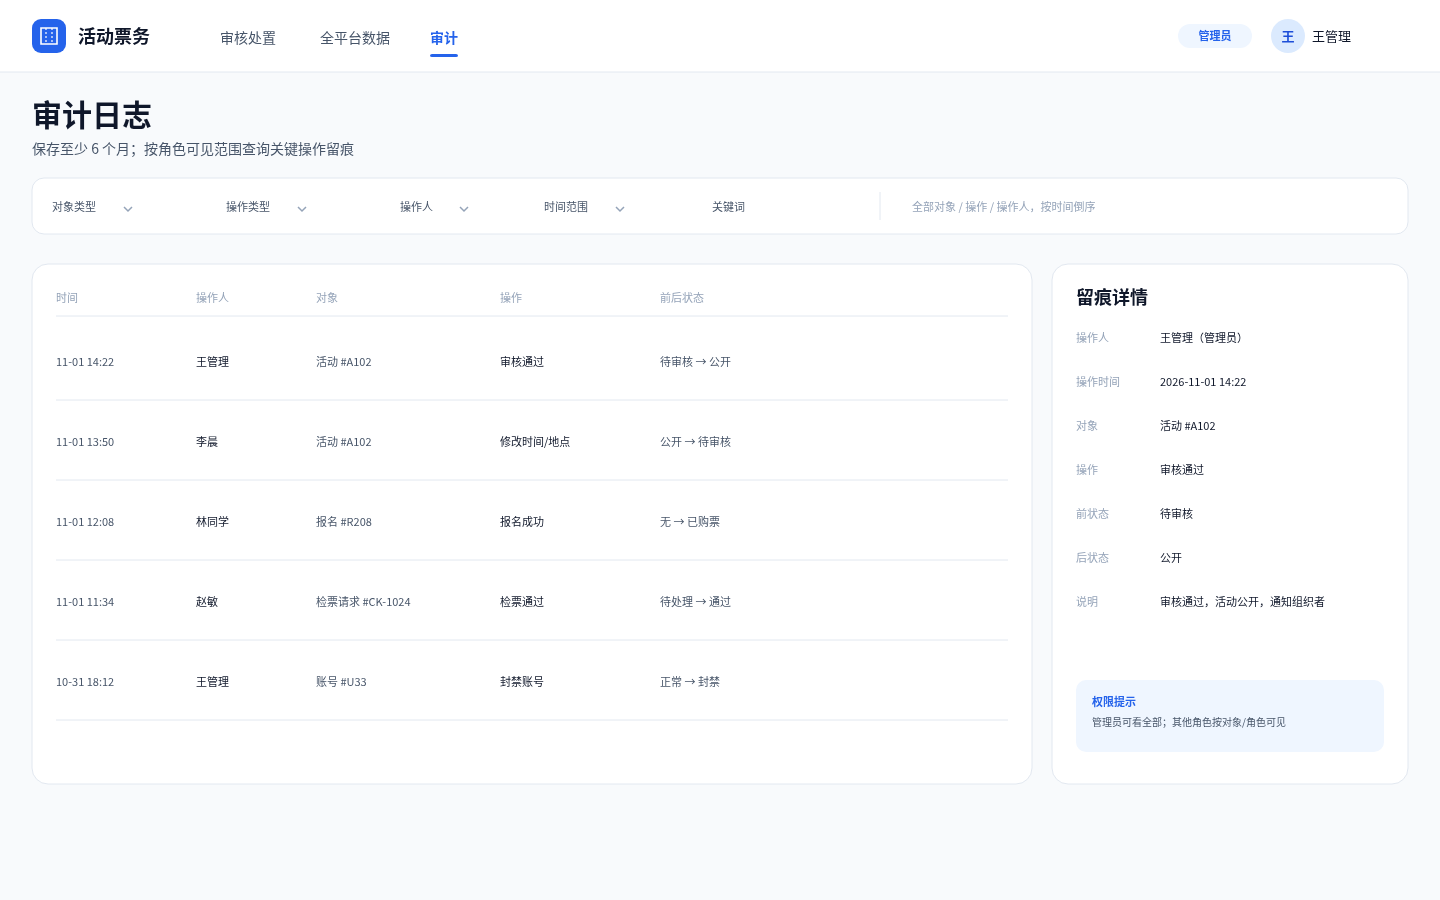
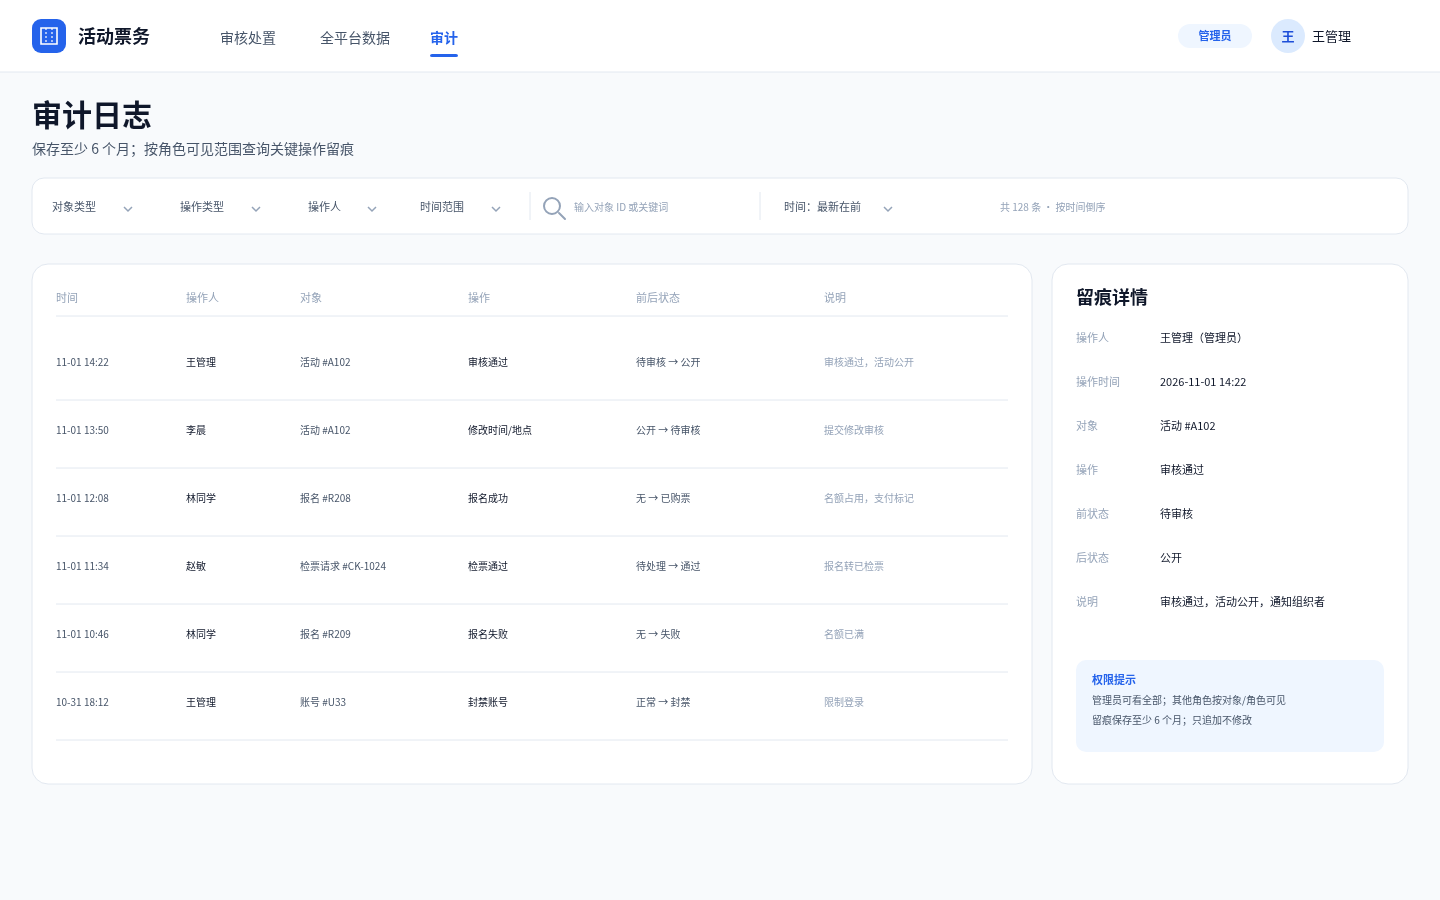
lab2: 按需求优化审计日志筛选与排序
- 筛选增加对象ID/关键词，排序明确时间最新在前
- 表格增加说明列，增加报名失败记录
- 保留6个月、角色可见、只追加不修改说明

diff --git a/lab2/UI/生成UI.py b/lab2/UI/生成UI.py
@@ -617,31 +617,39 @@ def screen_audit():
     b.append(text(32, 126, "审计日志", 30, C["text"], 700))
     b.append(text(32, 154, "保存至少 6 个月；按角色可见范围查询关键操作留痕", 14, C["sub"]))
     b.append(rect(32, 178, 1376, 56, C["surface"], 12, C["border"]))
-    for x, label, chev in [(52, "对象类型", 72), (226, "操作类型", 72), (400, "操作人", 60), (544, "时间范围", 72), (712, "关键词", 0)]:
+    # 筛选：对象类型 / 操作类型 / 操作人 / 时间范围 / 对象或关键词 / 排序
+    for x, label, chev in [(52, "对象类型", 72), (180, "操作类型", 72), (308, "操作人", 60), (420, "时间范围", 72), (784, "时间：最新在前", 100)]:
         b.append(text(x, 211, label, 11, C["sub"]))
         if chev:
             b.append(f'<path d="M{x+chev} 207 l4 4 l4 -4" fill="none" stroke="{C["muted"]}" stroke-width="1.5"/>')
-    b.append(line(880, 192, 880, 220, C["border"]))
-    b.append(text(912, 211, "全部对象 / 操作 / 操作人，按时间倒序", 11, C["muted"]))
+    b.append(line(530, 192, 530, 220, C["border"]))
+    b.append(icon_search(552, 206, 8))
+    b.append(text(574, 211, "输入对象 ID 或关键词", 10, C["muted"]))
+    b.append(line(760, 192, 760, 220, C["border"]))
+    b.append(text(1000, 211, "共 128 条 · 按时间倒序", 10, C["muted"]))
+    # 日志表
     b.append(rect(32, 264, 1000, 520, C["surface"], 16, C["border"]))
-    for x, label in [(56, "时间"), (196, "操作人"), (316, "对象"), (500, "操作"), (660, "前后状态")]:
+    for x, label in [(56, "时间"), (186, "操作人"), (300, "对象"), (468, "操作"), (636, "前后状态"), (824, "说明")]:
         b.append(text(x, 302, label, 11, C["muted"], 500))
     b.append(line(56, 316, 1008, 316))
     rows = [
-        ("11-01 14:22", "王管理", "活动 #A102", "审核通过", "待审核 → 公开"),
-        ("11-01 13:50", "李晨", "活动 #A102", "修改时间/地点", "公开 → 待审核"),
-        ("11-01 12:08", "林同学", "报名 #R208", "报名成功", "无 → 已购票"),
-        ("11-01 11:34", "赵敏", "检票请求 #CK-1024", "检票通过", "待处理 → 通过"),
-        ("10-31 18:12", "王管理", "账号 #U33", "封禁账号", "正常 → 封禁"),
+        ("11-01 14:22", "王管理", "活动 #A102", "审核通过", "待审核 → 公开", "审核通过，活动公开"),
+        ("11-01 13:50", "李晨", "活动 #A102", "修改时间/地点", "公开 → 待审核", "提交修改审核"),
+        ("11-01 12:08", "林同学", "报名 #R208", "报名成功", "无 → 已购票", "名额占用，支付标记"),
+        ("11-01 11:34", "赵敏", "检票请求 #CK-1024", "检票通过", "待处理 → 通过", "报名转已检票"),
+        ("11-01 10:46", "林同学", "报名 #R209", "报名失败", "无 → 失败", "名额已满"),
+        ("10-31 18:12", "王管理", "账号 #U33", "封禁账号", "正常 → 封禁", "限制登录"),
     ]
-    for i, (time, operator, obj, action, state) in enumerate(rows):
-        y = 344 + i * 80
-        b.append(text(56, y + 22, time, 11, C["sub"]))
-        b.append(text(196, y + 22, operator, 11, C["text"], 500))
-        b.append(text(316, y + 22, obj, 11, C["sub"]))
-        b.append(text(500, y + 22, action, 11, C["text"], 500))
-        b.append(text(660, y + 22, state, 11, C["sub"]))
+    for i, (time, operator, obj, action, state, desc) in enumerate(rows):
+        y = 344 + i * 68
+        b.append(text(56, y + 22, time, 10, C["sub"]))
+        b.append(text(186, y + 22, operator, 10, C["text"], 500))
+        b.append(text(300, y + 22, obj, 10, C["sub"]))
+        b.append(text(468, y + 22, action, 10, C["text"], 500))
+        b.append(text(636, y + 22, state, 10, C["sub"]))
+        b.append(text(824, y + 22, desc, 10, C["muted"]))
         b.append(line(56, y + 56, 1008, y + 56, C["border"]))
+    # 详情
     b.append(rect(1052, 264, 356, 520, C["surface"], 16, C["border"]))
     b.append(text(1076, 304, "留痕详情", 18, C["text"], 700))
     details = [("操作人", "王管理（管理员）"), ("操作时间", "2026-11-01 14:22"), ("对象", "活动 #A102"), ("操作", "审核通过"), ("前状态", "待审核"), ("后状态", "公开"), ("说明", "审核通过，活动公开，通知组织者")]
@@ -649,9 +657,10 @@ def screen_audit():
         y = 342 + i * 44
         b.append(text(1076, y, k, 11, C["muted"]))
         b.append(text(1160, y, v, 11, C["text"], 500))
-    b.append(rect(1076, 680, 308, 72, C["blue_tint"], 10))
-    b.append(text(1092, 706, "权限提示", 11, C["primary"], 700))
-    b.append(text(1092, 726, "管理员可看全部；其他角色按对象/角色可见", 10, C["sub"]))
+    b.append(rect(1076, 660, 308, 92, C["blue_tint"], 10))
+    b.append(text(1092, 684, "权限提示", 11, C["primary"], 700))
+    b.append(text(1092, 704, "管理员可看全部；其他角色按对象/角色可见", 10, C["sub"]))
+    b.append(text(1092, 724, "留痕保存至少 6 个月；只追加不修改", 10, C["sub"]))
     return svg_doc("".join(b), defs_gradient())
 
 

diff --git a/lab2/杂物/AI使用记录_完整过程.md b/lab2/杂物/AI使用记录_完整过程.md
@@ -718,3 +718,27 @@
   - 问题：已处理/待处理数量是演示数据；非开放时间的按钮禁用状态在静态图中只用文字说明。
 - **人工修改优化后的结果**：按需求核对完成第八屏调整。
 - **对应 Git 提交**：`454cba2`（检票工作台核对）。
+
+---
+
+## 使用记录 36：审计日志筛选、排序与留痕内容核对
+
+- **时间**：2026-11-01
+- **使用场景**：用户要求最后一张审计日志按需求优化筛选和排序，并检查留痕内容与权限。
+- **需求依据**：
+  - REQ-039：关键操作留痕范围，报名失败也要记录原因；
+  - REQ-040：每条留痕含操作人、时间、对象、操作类型、前后状态、说明；
+  - REQ-041：保存至少 6 个月；管理员看全部，其他角色按对象/角色可见；
+  - REQ-028：通知本身不留痕。
+- **AI 的处理**：
+  - 筛选优化为：对象类型、操作类型、操作人、时间范围、对象 ID/关键词；排序为“时间：最新在前”；
+  - 表格增加“说明”列，覆盖 REQ-040 的说明字段；
+  - 增加报名失败（名额已满）示例，覆盖 REQ-039；
+  - 右侧详情保留操作人/时间/对象/操作/前后状态/说明；
+  - 保留“保存至少6个月、只追加不修改、按角色可见”的提示；
+  - `其余六屏说明` 增加 REQ-039/040/041/028 对照。
+- **优点/问题**：
+  - 优点：筛选和排序更符合审计查询场景；表格可以直接看到说明和失败原因；权限与保留期明确。
+  - 问题：图中的 128 条、操作人和时间是演示数据；通知本身不留痕只在说明中注明。
+- **人工修改优化后的结果**：按用户意见完成第九屏调整。
+- **对应 Git 提交**：待提交（审计日志核对）。

diff --git a/lab2/AI使用记录.md b/lab2/AI使用记录.md
@@ -122,7 +122,7 @@
 - **生成结果**：`04_我的票与退票`、`05_组织者活动管理`、`06_组织者名单与统计`、`07_管理员审核与处置`、`08_检票员工作台`、`09_审计日志与权限` 的 SVG 与 PNG 预览，以及 `其余六屏说明.md`。
 - **优点/问题**：六屏覆盖了参与者/组织者/管理员/检票员的主要任务，隐私和状态限制（手机号遮挡、检票员不看名单、统计结束后开放）都体现在界面上；但仍是静态骨架，图表、弹窗、空/加载/禁用状态和 Figma 组件化需要人工调整。
 - **人工修改**：第三屏后的登录/活动/候补修改已记录；我的票页按 R12 调整：增加候补中、已退票展示，保留“已购票”状态并补充“有效票（待检票）”，筛选合并“已取消/已退票”但卡片保留具体原因；删除退票说明中的“一单一张”。其余屏待 Figma 调整。
-- **Git**：`3d2c5d8`（其余六屏 UI）、`7d13740`（我的票状态调整）、`8880b99`（筛选分类调整）、`e5b3696`（间距与标题调整）、`6f45a10`（组织者权限核对）、`fce1b84`（名单统计核对）、`55c826c`（管理员审核核对）、`454cba2`（检票工作台核对）。
+- **Git**：`3d2c5d8`（其余六屏 UI）、`7d13740`（我的票状态调整）、`8880b99`（筛选分类调整）、`e5b3696`（间距与标题调整）、`6f45a10`（组织者权限核对）、`fce1b84`（名单统计核对）、`55c826c`（管理员审核核对）、`454cba2`（检票工作台核对）、本次审计日志核对待提交。
 
 ---
 

diff --git a/lab2/UI/其余六屏说明.md b/lab2/UI/其余六屏说明.md
@@ -121,11 +121,16 @@
 
 - **角色/模块**：管理员；留痕与权限。
 - **内容**：
-  - 筛选：对象类型、操作类型、操作人、时间范围、关键词；
-  - 日志表：时间、操作人、对象、操作、前后状态；
+  - 筛选：对象类型、操作类型、操作人、时间范围、对象 ID/关键词；排序：时间最新在前；
+  - 日志表：时间、操作人、对象、操作、前后状态、说明；
+  - 日志覆盖活动审核/修改、报名成功、报名失败（名额已满）、检票通过、账号封禁等；
   - 右侧详情：操作人/时间/对象/操作/前后状态/说明；
-  - 权限提示：管理员可看全部；其他角色按对象/角色可见；留痕保存至少 6 个月。
-- **约束**：审计只追加不修改；通知本身不留痕（REQ-028）。
+  - 权限提示：管理员可看全部；其他角色按对象/角色可见；留痕保存至少 6 个月，只追加不修改。
+- **需求对照**：
+  - REQ-039：关键操作留痕范围，包括报名失败原因；
+  - REQ-040：每条留痕含操作人、时间、对象、操作类型、前后状态、说明；
+  - REQ-041：保存至少 6 个月；管理员看全部，其他角色按对象/角色可见；
+  - REQ-028：通知本身不留痕（审计只记录业务操作）。
 - **Figma 调整**：可按对象类型做标签筛选；详情可加“对象快照”区域。
 
 ## 导出命名

diff --git a/lab2/UI/UI设计规范.md b/lab2/UI/UI设计规范.md
@@ -59,7 +59,7 @@
 | UI-06 | 组织者名单与统计 | 组织者 | 查询统计 | 报名人数/名单/出席率/退票率；全部场次结束后开放；按活动/场次；手机号遮挡；导出不含完整手机号 |
 | UI-07 | 管理员审核与处置 | 管理员 | 管理员处置、活动 | 发布/修改/取消审核；审核意见；相关处置：取消活动/强制退票/封禁组织者/创建检票账号；举报独立 Tab |
 | UI-08 | 检票员工作台 | 检票员 | 检票 | 仅负责活动；请求编号/遮挡姓名；通过/异常；时间窗；手动勾选；不记录缺席；重复检票提示 |
-| UI-09 | 审计日志与权限 | 管理员 | 留痕与权限 | 按对象/操作人/时间筛选、角色可见范围 |
+| UI-09 | 审计日志与权限 | 管理员 | 留痕与权限 | 对象类型/操作类型/操作人/时间/对象关键词；时间最新在前；前后状态+说明；6个月；角色可见范围 |
 
 ## 4. 角色导航
 
